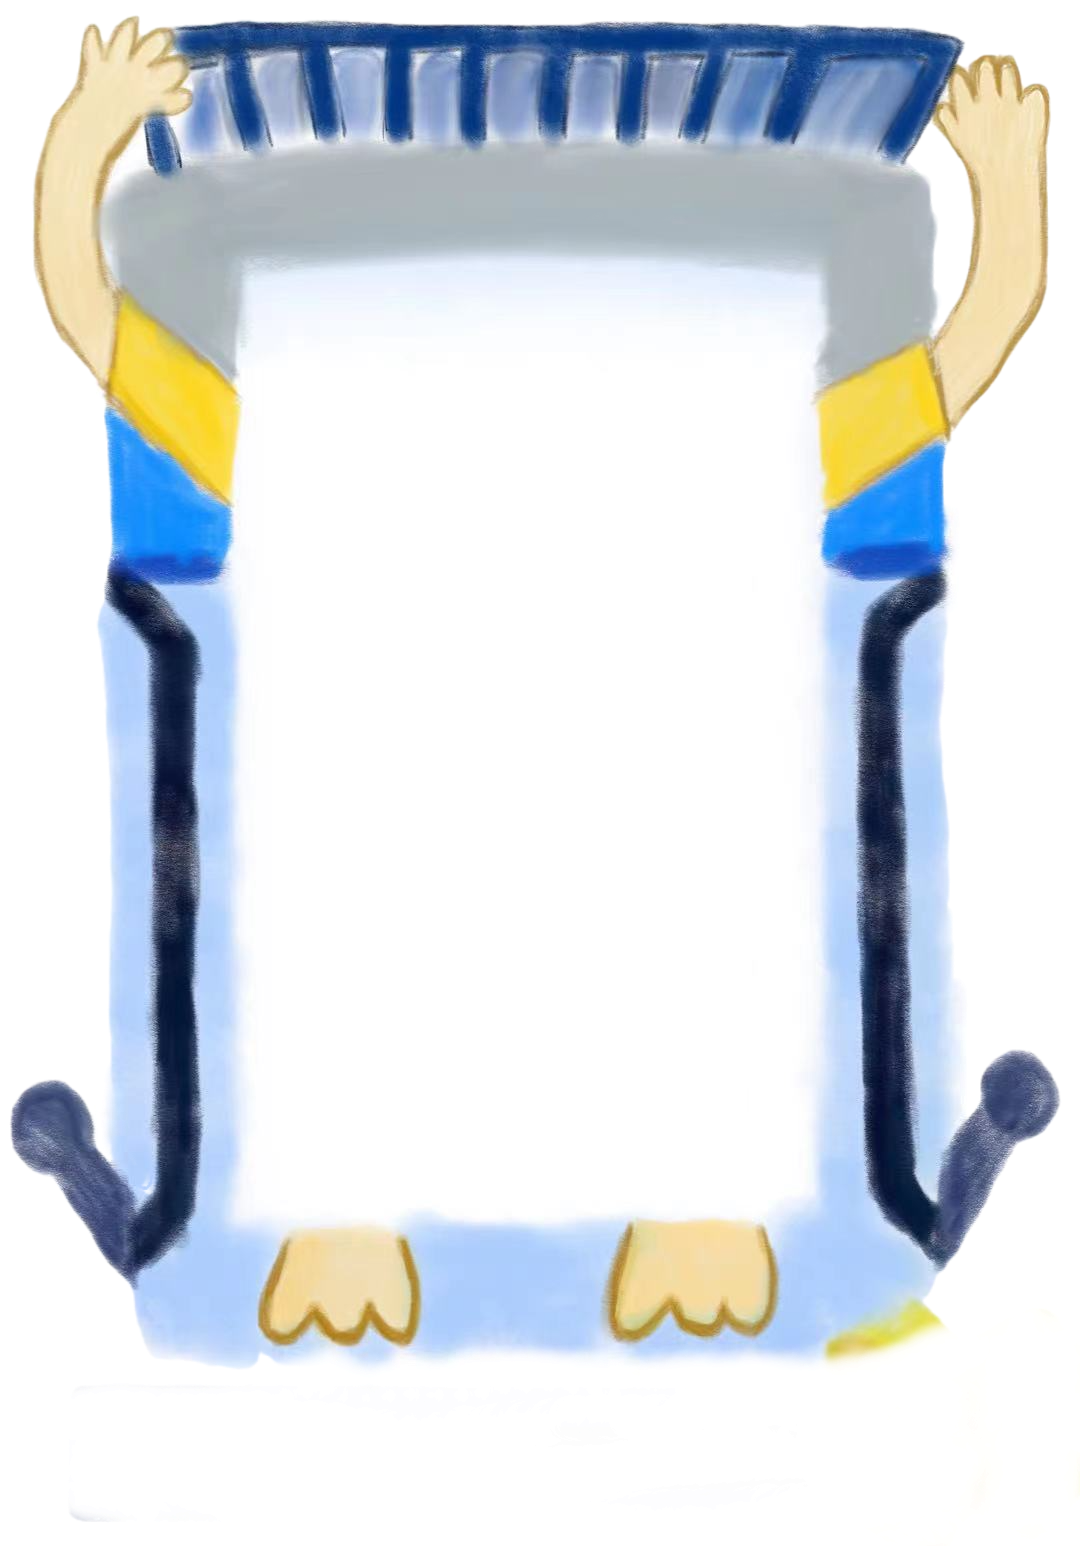
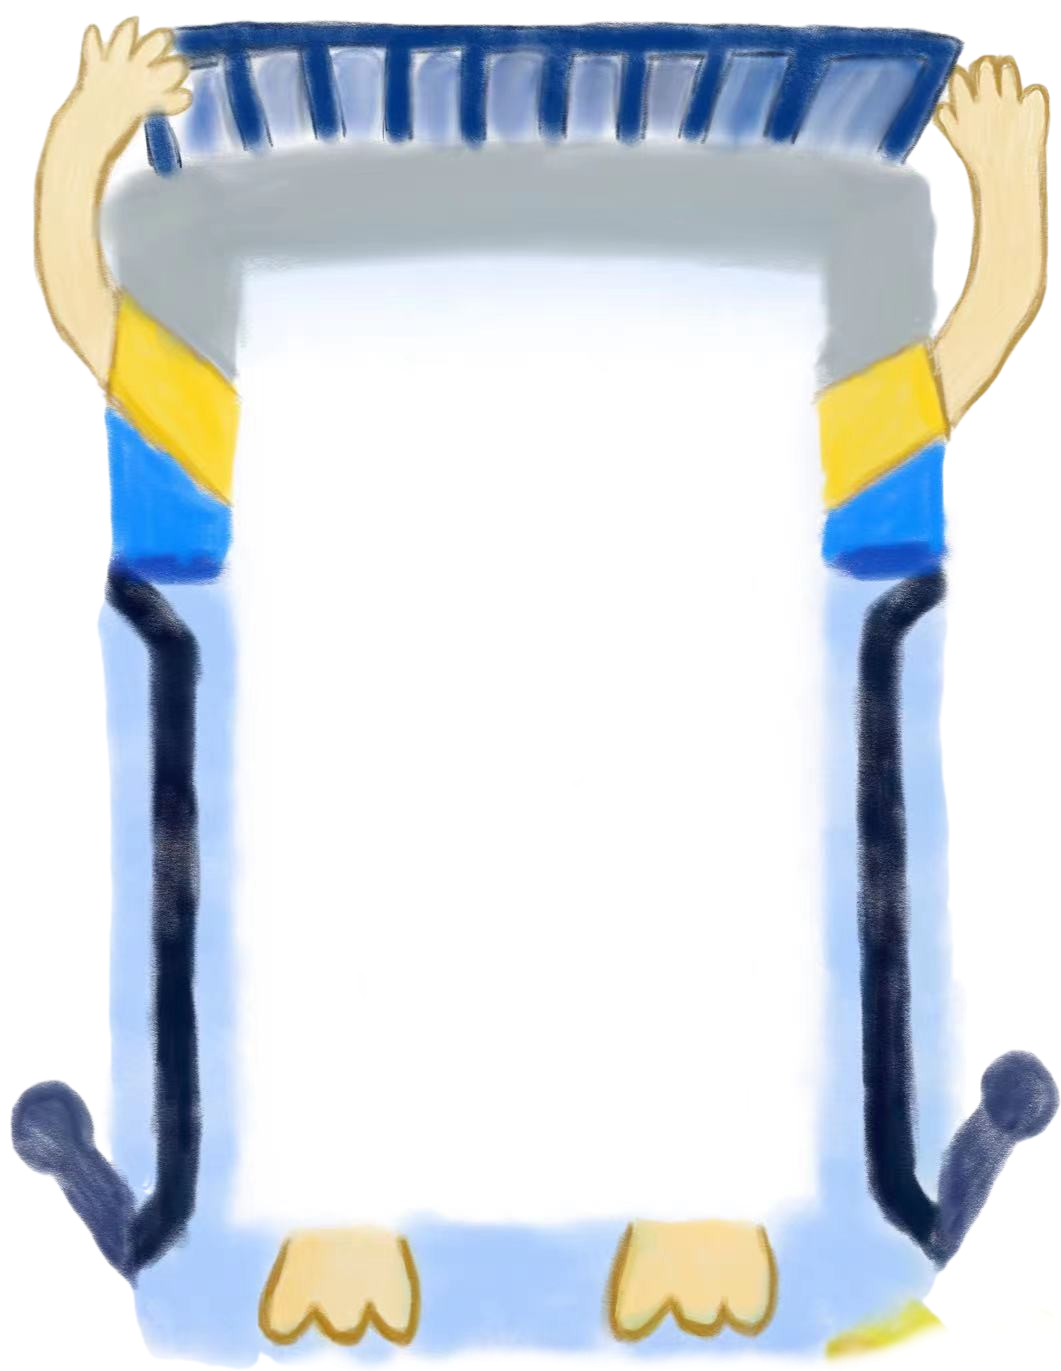
change

diff --git a/Server Version/Web/css/home.css b/Server Version/Web/css/home.css
@@ -1280,11 +1280,11 @@ html {
     width: 30%;
     height: auto;
     border: 0;
-    margin-left:28%;
+    margin-left:26%;
     /*margin:0 auto;*/
     /*position: fixed;*/
     /*background: slategray;*/
-    margin-bottom: -4%;
+    margin-bottom: -5%;
     margin-top: 2%;
 
 
@@ -1327,19 +1327,20 @@ html {
     margin-top: 4%;
     justify-content: center;
     align-items: center;
-    background-image: url("../images/play.jpg");
+    background-image: url("../images/play1.png");
     background-size: 100% 100%;
     background-repeat: no-repeat;
+    /*background-color: blanchedalmond;*/
 }
 
 #content {
     background-color: beige;
-    width: 52.5%;
+    width: 53.5%;
     height: 68%;
     /*margin-top: 5%;*/
-    margin-left: 22.5%;
+    margin-left: 23%;
     margin-right: 18%;
-    margin-top: 18vh;
+    margin-top: 17.3vh;
     opacity: 0.8;
     border-radius: 30px;
 }
@@ -1424,6 +1425,8 @@ html {
     line-height: 35px;
     padding-left: 5%;
     padding-right: 3%;
+    border-bottom-right-radius: 15px;
+    border-bottom-left-radius: 15px;
 }
 
 /*right interface in play main interface*/
